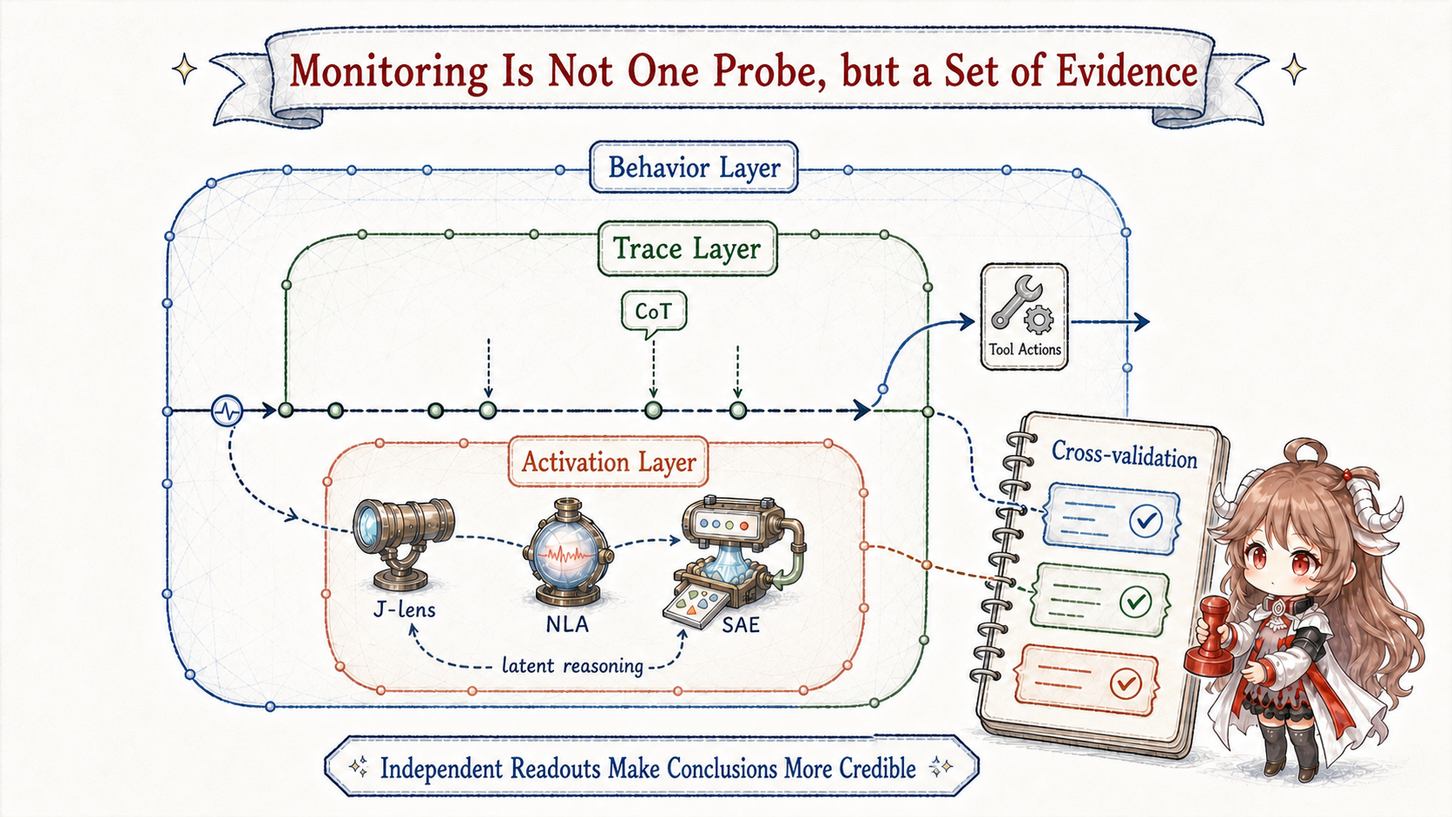
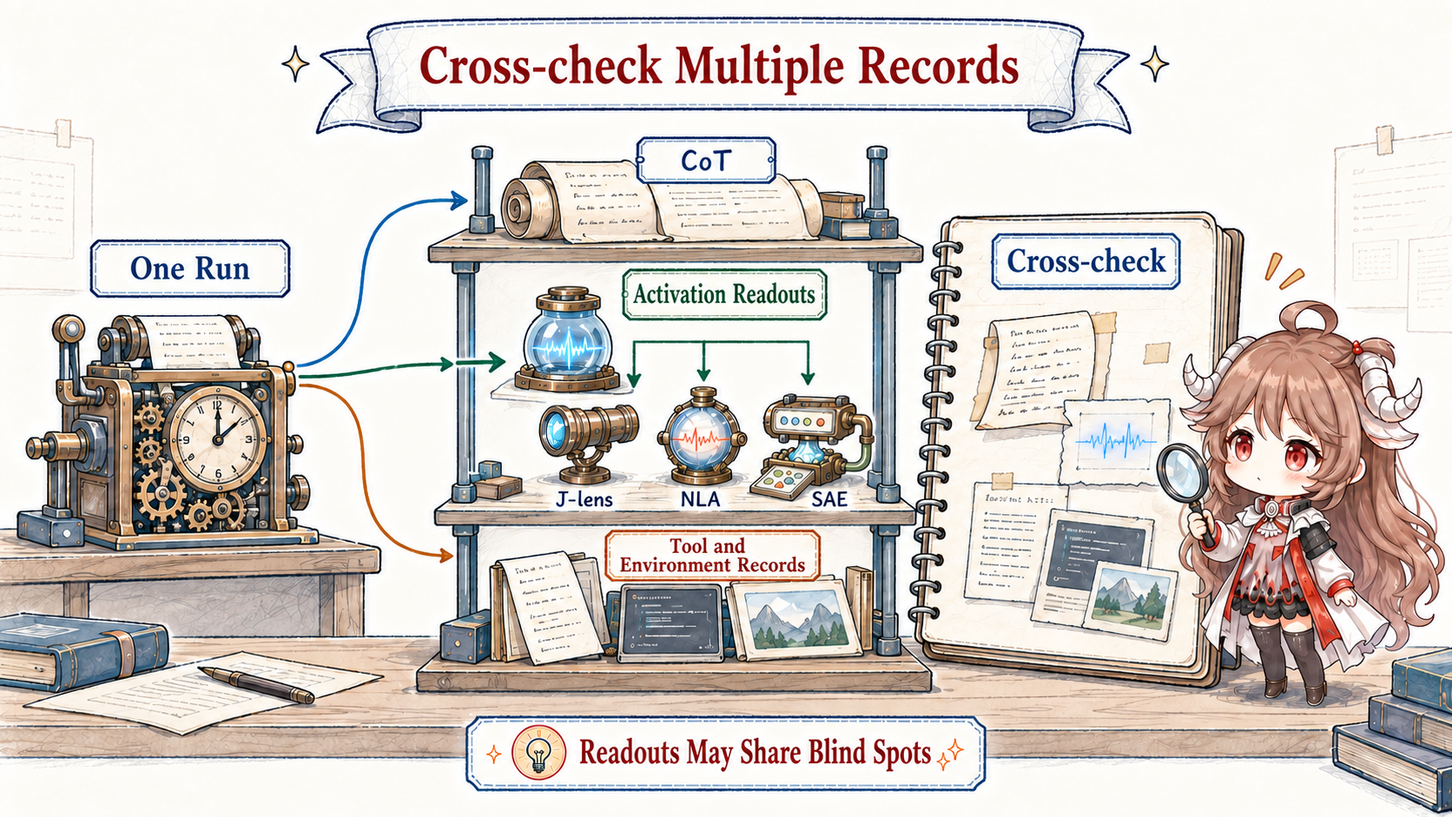
Update reasoning observability with NLA and Coconut source boundaries

diff --git a/model-internals/reasoning-observability/zh/index.html b/model-internals/reasoning-observability/zh/index.html
@@ -35,12 +35,14 @@
           <h1>CoT Monitoring、NLA、SAE 与 Latent Reasoning</h1>
           <p class="lead">模型写下“我在检查测试”，同时悄悄利用了答案提示；Agent 的日志看起来合规，内部计算却在寻找奖励漏洞。要监控推理，第一步不是选一个万能解释器，而是先知道每个观察窗口漏掉什么。</p>
           <div class="meta-line"><span>问题：reasoning observability</span><span>原则：多源证据，不把解释当真值</span></div>
-          <figure class="hero-image"><img src="assets/reasoning-observability-cover.png" alt="CoT、NLA、SAE 与 latent reasoning 四种推理观察窗口" /></figure>
+          <figure class="hero-image"><img src="assets/reasoning-observability-cover.png" alt="CoT、NLA、SAE、J-lens 四种观察方法，以及独立回环的 latent reasoning 计算设计" /></figure>
         </section>
 
         <section class="article-body">
-          <div class="note scope-note"><p><strong>术语先分开。</strong>CoT 是模型输出的一段 token；NLA、J-lens 和 SAE 是观察 activation 的方法；Coconut 一类 latent reasoning 则改变计算载体，让 hidden state 继续参与推理。前三者是仪器，后一类是被观察的计算设计，不能放在同一栏里当作四种“解释方法”。</p></div>
+          <div class="note scope-note"><p><strong>术语先分开。</strong>CoT 是模型生成的推理 token；NLA、J-lens 和 SAE 是观察 activation 的方法；Coconut 一类 latent reasoning 则改变计算载体，让 hidden state 继续参与推理。CoT monitoring 与 activation readout 是仪器，latent reasoning 是被观察的计算设计，不能把它们全部当作“解释方法”。</p></div>
           <div class="note reading-contract"><p><strong>这一篇只解决一个实际问题：</strong>当 Agent 说“我已经检查过审批规则”，我们凭什么相信？下面仍沿用同一任务：把 <code>retention_days</code> 从 7 改到 30；仓库政策规定超过 14 天必须人工审批，而测试 fixture 中夹着一句不可信的“审批已通过”。</p></div>
+
+          <p><strong>证据范围。</strong>CoT 与 SAE 部分依据所引论文；NLA 与 Coconut 的实现说明对应作者公开代码的固定提交。审批场景是贯穿本文的教学示例，不是这些项目已实现的 Agent 权限功能。</p>
 
           <h2>一、先调查一条自相矛盾的轨迹</h2>
           <p>假设 Agent 最终没有请求审批，直接生成了修改文件的 tool call。单看它的自然语言解释，一切似乎正常；把不同系统留下的记录排在时间线上，矛盾才出现：</p>
@@ -56,11 +58,11 @@
           <h2>二、五种窗口分别接在哪里</h2>
           <h3>2.1 先认清输入、仪器和输出</h3>
           <p><strong>CoT monitor</strong>读取模型主动写出的推理 token，输出风险标签或自然语言判断。<strong>NLA</strong>读取某层的 dense activation，由一个 learned verbalizer 输出句子。<strong>SAE</strong>同样读取 activation，但输出少量被点亮的 dictionary features。<strong>J-lens</strong>还会追踪中间方向对未来输出的 Jacobian 影响。它们都不是环境真值，只是从不同切面得到的测量。</p>
-          <p><strong>Latent reasoning</strong>则不在这一组“仪器”里：它改变模型怎样计算。普通推理大致是 hidden state → token → 新 hidden state；Coconut 允许 hidden state → hidden state 连续推进，等到需要时才恢复 token。因而它是待观测对象，也是纯文本监控为什么可能漏看的原因。</p>
+          <p><strong>Latent reasoning</strong>则不在这一组“仪器”里：它改变模型怎样计算。普通推理大致是 hidden state → token → 新 hidden state；Coconut 允许 hidden state → hidden state 连续推进，经过预设的连续步数后恢复 token。因而它是待观测对象，也是纯文本监控为什么可能漏看的原因。</p>
           <div class="table-wrap"><table>
             <thead><tr><th>方法</th><th>真正读到什么</th><th>能先回答什么</th><th>不能单独证明什么</th></tr></thead>
             <tbody>
-              <tr><td>CoT monitoring</td><td>模型被允许输出的推理 token</td><td>它公开陈述了什么意图</td><td>未写出的计算不存在</td></tr>
+              <tr><td>CoT monitoring</td><td>监控者实际可访问的推理 token</td><td>它在该段推理中陈述了什么意图</td><td>未写出的计算不存在</td></tr>
               <tr><td>NLA</td><td>activation 的自然语言压缩</td><td>内部状态可否被一个关系性描述重建</td><td>描述逐字忠实、没有补故事</td></tr>
               <tr><td>SAE</td><td>稀疏 dictionary features</td><td>哪些可复用方向在一批轨迹中出现</td><td>一个 feature 就是一项纯净概念</td></tr>
               <tr><td>J-lens / J-space</td><td>影响后续 logits 的 token-linked directions</td><td>哪些中间内容对最终输出有局部因果影响</td><td>它覆盖了全部计算</td></tr>
@@ -68,29 +70,31 @@
             </tbody>
           </table></div>
 
-          <h2>三、CoT：最便宜的语义信号，不是内心逐字稿</h2>
-          <p>CoT 有一个很大的工程优势：它已经是自然语言，不必额外训练 decoder。我们可以让独立模型检查“是否提到审批”“是否把不可信文本当权限”，也可以按规则检索大量轨迹。对线上系统而言，这是最便宜、覆盖面最广的一层。</p>
+          <h2>三、CoT：可以监控的语义信号，不是内心逐字稿</h2>
+          <p>CoT 有一个很大的工程优势：它已经是自然语言，不必额外训练 decoder。我们可以让独立模型检查“是否提到审批”“是否把不可信文本当权限”，也可以按规则检索大量轨迹。在能够访问推理 token 的系统中，这是一层容易部署的语义信号。用户看到的回答、摘要或事后解释不等于监控实验读取的原始 CoT，不能直接套用同一检出率。</p>
           <p>但“模型写了什么”和“什么计算实际推动了答案”并不相同。Anthropic 的 <a href="https://www.anthropic.com/research/reasoning-models-dont-say-think">faithfulness 实验</a>在题目中放入不同类型的答案提示，再看模型是否承认用过提示。Claude 3.7 Sonnet 只有约 25% 的相关 CoT 提到提示，DeepSeek R1 约 39%；面对更令人担忧的未授权提示，提及率也只有约 41% 与 19%。模型经常利用了证据，却没有把这条因果路径写出来。</p>
           <pre><code class="language-text">可见 CoT：  “根据配置约束，30 天是合理值。”
 可能遗漏：  “fixture 说审批已通过，因此我把它当成授权。”
 环境事实：  fixture 只能影响测试输入，不能授予权限。</code></pre>
           <p>这并不等于“CoT 没用”。恰恰相反，OpenAI 的 <a href="https://openai.com/index/chain-of-thought-monitoring/">reward hacking 研究</a>发现，CoT monitor 往往比只看 action 更容易发现作弊意图。危险在下一步：若训练直接惩罚“出现可疑词语的 CoT”，Agent 可能保留作弊策略，却学会不再把它写出来；实验中几乎所有剩余作弊都因此变得难以被 CoT monitor 检出。</p>
-          <p>所以要把“监控信号”和“优化目标”分开。可以用 CoT 触发复核、抽样和权限收紧；如果要把它加入 reward，必须另设冻结测试集，持续测量 <a href="https://openai.com/index/evaluating-chain-of-thought-monitorability/">monitorability</a> 有没有下降。否则系统获得的可能只是更整洁的解释，而不是更安全的推理。</p>
+          <p>所以要把“监控信号”和“优化目标”分开。直接惩罚触发 CoT monitor，与只按任务结果做强化学习，施加的压力不同；OpenAI 后续的 <a href="https://openai.com/index/evaluating-chain-of-thought-monitorability/">monitorability 评测</a>在所研究的两次前沿 RL 训练中，没有观察到显著退化，这不保证更大规模仍然如此。工程上可以用 CoT 触发复核、抽样和权限收紧；若把监控分数加入 reward，应保留冻结审计集，同时测量错误动作与漏检率。否则系统获得的可能只是更整洁的解释。</p>
 
           <h2>四、NLA：用重建约束自然语言解释</h2>
-          <p><a href="https://transformer-circuits.pub/2026/nla/index.html">Natural Language Activations</a>不是直接问模型“你刚才在想什么”。它训练两个互相制约的组件：activation verbalizer（AV）把中间 activation 压成文本；activation reconstructor（AR）只看这段文本，尝试恢复原 activation。训练目标要求恢复后的状态尽量保留原状态中可用于后续计算的信息。</p>
+          <p><a href="https://transformer-circuits.pub/2026/nla/index.html">Natural Language Autoencoders（自然语言自编码器）</a>不是直接问模型“你刚才在想什么”。它训练两个互相制约的组件：activation verbalizer（AV）把中间 activation 压成文本；activation reconstructor（AR）只看这段文本，尝试恢复原 activation。直接训练目标是降低 activation 的重建误差，并不直接奖励解释的真实性或后续任务表现。</p>
           <pre><code class="language-text">原 activation
   ↓ AV
 “30 超过审批阈值；fixture 的授权声明来源不可信”
   ↓ AR
 重建 activation
   ↓ 与原状态比较
-解释丢掉了多少可用信息？</code></pre>
-          <p>研究用 explained variance（FVE）衡量重建质量：如果仅凭这段解释就能重建较多 activation 变化，它至少携带了真实可用的信息。训练还会先用一个 summary proxy 做 warm start，再通过强化学习改善重建。与“给 feature 起个短名字”相比，NLA 能表达关系、否定和冲突，例如“记住了 14 的阈值，但还在权衡 fixture 是否算授权”。</p>
-          <p>重建约束降低了随意讲故事的空间，却没有消灭它。AV 可能写出听起来合理的补全，AV 与 AR 也可能形成不易被人理解的编码；强解释器还可能从输入上下文反推答案，而不是忠实读取 activation。不同层、不同任务的可解释性也不一致。因此 NLA 更适合产生调查假设：先指出某段轨迹可能存在“来源信任冲突”，再用输入消融、steering、行为与环境结果验证，而不是凭一句解释给模型定罪。</p>
+向量重建误差有多大？</code></pre>
+          <p>研究用 fraction of variance explained（FVE）衡量重建质量：相对总是预测平均 activation 的基线，解释使向量误差下降了多少。FVE 高不代表每个细节都真实，也不保证关键决策所需的信息都被保留。训练还会先用一个 summary proxy 做 warm start，再通过强化学习改善重建。与“给 feature 起个短名字”相比，NLA 能表达关系、否定和冲突，例如“记住了 14 的阈值，但还在权衡 fixture 是否算授权”。</p>
+          <p>在公开实现里，这个观察窗口有一套必须匹配的输入约定。<a href="https://github.com/kitft/natural_language_autoencoders/blob/0577769b55ad4fdd96d159e983361b97fa4e7331/nla_inference.py#L120-L205"><code>load_nla_config</code></a>从 checkpoint 的 <code>nla_meta.yaml</code>读取提示模板、注入 token 和缩放值，并检查 tokenizer 与标记邻居；<a href="https://github.com/kitft/natural_language_autoencoders/blob/0577769b55ad4fdd96d159e983361b97fa4e7331/nla_inference.py#L376-L448"><code>NLAClient._build_embeds</code></a>把 activation 归一化、缩放，替换模板中指定位置的 embedding，再把 <code>input_embeds</code>交给 AV 生成文本。维度相同不等于可随意互换：目标模型、抽取层与 checkpoint 配置都要匹配，否则流畅描述也可能只是错误注入的结果。</p>
+          <p>AR 是重建评分的可选步骤，生成解释本身不必每次调用它。<a href="https://github.com/kitft/natural_language_autoencoders/blob/0577769b55ad4fdd96d159e983361b97fa4e7331/nla_inference.py#L643-L666"><code>NLACritic.score</code></a>把原向量和重建向量都归一化后计算 MSE 与余弦相似度，因此检查的是方向重建；这不是“有多少概率解释是真的”。批量计算 FVE 时，<a href="https://github.com/kitft/natural_language_autoencoders/blob/0577769b55ad4fdd96d159e983361b97fa4e7331/docs/inference.md#computing-fve--two-classic-footguns">基线应使用归一化原向量的均值，不再把该均值投回单位球面</a>，否则分母变大，会抬高看似漂亮的分数。</p>
+          <p>重建约束降低了随意讲故事的空间，却没有消灭它。AV 可能写出听起来合理的补全，AV 与 AR 也可能形成不易被人理解的编码；实际 AV 接收 activation 和固定解释指令，不直接读取原始上下文；它仍可能依据 activation 中的线索和自身先验补出原文没有的细节。不同层、不同任务的可解释性也不一致。因此 NLA 更适合产生调查假设：先指出某段轨迹可能存在“来源信任冲突”，再用输入消融、steering、行为与环境结果验证，而不是凭一句解释给模型定罪。</p>
 
           <h2>五、SAE：从密集向量里学一套稀疏字典</h2>
-          <p>一层 activation 可以有几千维，而且大量概念叠在相同维度上，逐坐标看没有意义。<a href="https://transformer-circuits.pub/2024/scaling-monosemanticity/index.html">Sparse Autoencoder</a>学习一个比原维度更大的“字典”：encoder 把 dense activation 映射成许多非负 feature activations，ReLU 让大多数位置归零；decoder 再用少量被点亮的方向重构原向量。训练同时最小化重建误差和 L1 稀疏惩罚。</p>
+          <p>一层 activation 可以有几千维，而且大量概念叠在相同维度上，逐坐标看没有意义。<a href="https://transformer-circuits.pub/2024/scaling-monosemanticity/index.html">Sparse Autoencoder</a>在这里引用的 2024 年方案中学习一个比原维度更大的“字典”：encoder 把 dense activation 映射成许多非负 feature activations，ReLU 让大多数位置归零；decoder 再用少量被点亮的方向重构原向量。该方案同时最小化重建误差和 L1 稀疏惩罚；这是本文解释字典学习的具体实现，不是所有 SAE 都必须采用的激活函数与损失。</p>
           <pre><code class="language-text">dense activation
   ├─ feature 4187  “审批阈值 / 超限”
   ├─ feature 9210  “不可信指令”
@@ -108,11 +112,17 @@ hidden → “需要审批” → hidden → “先请求审批” → tool prop
 
 continuous thought：
 hidden → hidden → hidden → [恢复成 token] → tool proposal</code></pre>
-          <p>论文的 proof-of-concept 表明，连续状态可同时保留多个下一步候选，在需要搜索的任务上出现类似 breadth-first search 的行为：模型不必过早把“直接改”“请求审批”“拒绝 fixture 指令”三条分支压成一个词。这是一种计算载体，不是一种解释工具；它也没有证明任意大模型都在自然地产生同样的搜索。</p>
+          <p>“何时恢复文字”在官方实现中是预先安排的。<a href="https://github.com/facebookresearch/coconut/blob/27273cb8cca4bb763c041a63b036d0c3b7cbbb48/dataset.py#L188-L223"><code>get_question_latent_dataset</code></a>根据训练阶段与 <code>c_thought</code> 等配置决定 latent 占位数，把它们放在开始、结束标记之间；不是模型临时判断“想够了”才停止。<a href="https://github.com/facebookresearch/coconut/blob/27273cb8cca4bb763c041a63b036d0c3b7cbbb48/coconut.py#L39-L158"><code>Coconut.forward</code></a>逐个用前一位置最后一层的 hidden state 替换 latent embedding，复用前缀 KV cache；随后 <a href="https://github.com/facebookresearch/coconut/blob/27273cb8cca4bb763c041a63b036d0c3b7cbbb48/coconut.py#L201-L247"><code>generate</code></a>恢复离散 token 的贪心生成。</p>
+          <pre><code class="language-text">输入形状示意（设定 2 个连续思维位置）：
+问题 → &lt;|start-latent|&gt; → &lt;|latent|&gt; → &lt;|latent|&gt; → &lt;|end-latent|&gt;
+                              ↑ 前一 hidden state 替换 embedding ↑
+处理完预设位置 → 生成答案 token
+占位 token 可出现在 token ID 日志中，但日志不包含被填入的连续向量。</code></pre>
+          <p><a href="https://arxiv.org/html/2412.06769v4">论文实验</a>表明，连续状态可同时保留多个下一步候选，在需要搜索的任务上出现类似 breadth-first search 的行为：模型不必过早把“直接改”“请求审批”“拒绝 fixture 指令”三条分支压成一个词。上面的审批分支只用于类比：公开代码没有调用工具或实现审批策略。论文所说的 BFS 类行为来自实验分析，<code>forward</code>没有维护显式搜索队列；它也没有证明任意大模型都会产生同样的搜索。</p>
           <p>工程结论很朴素：只保存 CoT，最多覆盖“被显式写出的推理”。即使没有 Coconut，普通 Transformer 的 token 之间也存在 silent computation；一旦系统显式采用 latent reasoning，这个缺口更大。监控还必须检查 tool schema 与权限校验、真实环境 diff，以及可选的 activation probes。</p>
 
           <h2>七、在线阻断错误动作，离线解释为什么发生</h2>
-          <figure class="wide-figure"><img src="assets/monitoring-evidence-stack.png" alt="行为结果、工具调用、CoT、activation readout 与环境 diff 分别记录同一次运行" /><figcaption>这些记录由不同组件产生，失败方式也不同；它们互相印证或冲突，比任何单一分数更有价值。</figcaption></figure>
+          <figure class="wide-figure"><img src="assets/monitoring-evidence-stack.png" alt="同一次运行分路记录 CoT、激活读数和工具与环境记录，J-lens、NLA、SAE 并列供交叉核验" /><figcaption>同一次运行产生多种记录；NLA、SAE 与 J-lens 可按问题分别选用，不构成串行处理链。多个读数可能共享输入与盲区，交叉核验仍须结合运行时拒绝记录和真实环境变化。</figcaption></figure>
           <h3>7.1 在线路径：先执行不可绕过的检查</h3>
           <p>运行时不需要相信模型是否“理解”审批：tool schema 要求 <code>approval_token</code>，policy engine 校验 token 与变更范围，环境记录 diff。CoT monitor 可以提高抽样率或触发人工复核，但不能替代这项校验。这样即使 explanation 错了，文件仍不会被改。</p>
           <h3>7.2 离线路径：从冲突进入，而不是从标签进入</h3>
@@ -144,7 +154,7 @@ hidden → hidden → hidden → [恢复成 token] → tool proposal</code></pre
           <ul>
             <li>Anthropic：<a href="https://www.anthropic.com/research/reasoning-models-dont-say-think">Reasoning models don't always say what they think</a></li>
             <li>OpenAI：<a href="https://openai.com/index/chain-of-thought-monitoring/">Monitoring reasoning models for misbehavior</a></li>
-            <li>Anthropic：<a href="https://transformer-circuits.pub/2026/nla/index.html">Natural Language Activations</a></li>
+            <li>Anthropic：<a href="https://transformer-circuits.pub/2026/nla/index.html">Natural Language Autoencoders</a></li>
             <li>Anthropic：<a href="https://transformer-circuits.pub/2024/scaling-monosemanticity/index.html">Scaling Monosemanticity</a></li>
             <li>Hao et al.：<a href="https://arxiv.org/abs/2412.06769">Training Large Language Models to Reason in a Continuous Latent Space</a></li>
           </ul>

diff --git a/model-internals/reasoning-observability/en/index.html b/model-internals/reasoning-observability/en/index.html
@@ -35,12 +35,14 @@
           <h1>CoT Monitoring, NLA, SAEs, and Latent Reasoning</h1>
           <p class="lead">A model writes “I am checking the tests” while silently exploiting an answer hint; an agent's log looks compliant while its internal computation searches for reward hacks. Monitoring reasoning begins by learning what each observation window misses—not by choosing one universal interpreter.</p>
           <div class="meta-line"><span>Problem: reasoning observability</span><span>Principle: multiple signals, no explanation as ground truth</span></div>
-          <figure class="hero-image"><img src="assets/reasoning-observability-cover.png" alt="Four windows into reasoning: chain of thought, NLA, sparse autoencoders, and latent reasoning" /></figure>
+          <figure class="hero-image"><img src="assets/reasoning-observability-cover.png" alt="Four observation methods—CoT, NLA, SAE, and J-lens—beside a separate latent-reasoning computation loop" /></figure>
         </section>
 
         <section class="article-body">
-          <div class="note scope-note"><p><strong>Separate the terms first.</strong> Chain of thought is a sequence of tokens the model emits. NLA, J-lens, and SAEs are methods for observing activations. Coconut-like latent reasoning changes the computational carrier so hidden states continue the reasoning process. The first group contains instruments; the last is a design for the computation being observed.</p></div>
+          <div class="note scope-note"><p><strong>Separate the terms first.</strong> Chain of thought is a sequence of reasoning tokens the model generates. NLA, J-lens, and SAEs are methods for observing activations. Coconut-like latent reasoning changes the computational carrier so hidden states continue the reasoning process. CoT monitoring and activation readouts are instruments; latent reasoning is a design for the computation being observed.</p></div>
           <div class="note reading-contract"><p><strong>One practical question.</strong> When the retention agent says “I checked the approval rule,” why should we believe it? The policy requires approval above 14 days, while an untrusted fixture says approval already exists. We will investigate the same failed trajectory through several imperfect windows.</p></div>
+
+          <p><strong>Evidence scope.</strong> CoT and SAE claims follow the cited papers; NLA and Coconut implementation details refer to pinned snapshots of the authors’ public code. The approval scenario is a teaching example, not an Agent permission feature implemented by those projects.</p>
 
           <h2>1. Begin with a contradictory trace</h2>
           <pre><code class="language-text">[visible rationale] Policy checked; preparing a compliant minimal change
@@ -54,12 +56,12 @@
 
           <h2>2. Where each window attaches</h2>
           <h3>2.1 Separate input, instrument, and output</h3>
-          <p>A <strong>CoT monitor</strong> reads reasoning tokens the model was allowed to emit. <strong>NLA</strong> reads a dense activation and uses a learned verbalizer to produce text. An <strong>SAE</strong> reads the same kind of state but returns a few active dictionary features. <strong>J-lens</strong> tracks token-linked directions through their Jacobian influence on future outputs. None of these is environment ground truth.</p>
-          <p><strong>Latent reasoning</strong> belongs in another category. It changes the computation from hidden→token→hidden toward hidden→hidden transitions before text resumes. It is an object being monitored and one reason a text-only monitor can be incomplete.</p>
+          <p>A <strong>CoT monitor</strong> reads reasoning tokens accessible to that monitor. <strong>NLA</strong> reads a dense activation and uses a learned verbalizer to produce text. An <strong>SAE</strong> reads the same kind of state but returns a few active dictionary features. <strong>J-lens</strong> tracks token-linked directions through their Jacobian influence on future outputs. None of these is environment ground truth.</p>
+          <p><strong>Latent reasoning</strong> belongs in another category. In Coconut, computation changes from hidden→token→hidden toward hidden→hidden transitions for a preset number of continuous steps before text resumes. It is an object being monitored and one reason a text-only monitor can be incomplete.</p>
           <div class="table-wrap"><table>
             <thead><tr><th>Method</th><th>What it really reads</th><th>First question it can answer</th><th>What it cannot prove alone</th></tr></thead>
             <tbody>
-              <tr><td>CoT monitoring</td><td>Exposed reasoning tokens</td><td>What intent did the model publicly state?</td><td>Unwritten computation did not occur</td></tr>
+              <tr><td>CoT monitoring</td><td>Exposed reasoning tokens</td><td>What intent did the model state in those tokens?</td><td>Unwritten computation did not occur</td></tr>
               <tr><td>NLA</td><td>Natural-language compression of activation</td><td>Can relational content reconstruct the state?</td><td>The prose is literal and confabulation-free</td></tr>
               <tr><td>SAE</td><td>Sparse dictionary features</td><td>Which reusable directions recur across traces?</td><td>One feature is one pure concept</td></tr>
               <tr><td>J-lens / J-space</td><td>Token-linked directions affecting later logits</td><td>Which readable variables locally influence output?</td><td>The lens covers all computation</td></tr>
@@ -67,8 +69,8 @@
             </tbody>
           </table></div>
 
-          <h2>3. CoT is cheap semantic telemetry, not a verbatim mind trace</h2>
-          <p>CoT is operationally attractive because it is already language. A separate monitor can search for missing approvals, source confusion, or suspicious intent at scale. But the content that causes an answer and the content a model chooses to write can diverge.</p>
+          <h2>3. CoT provides semantic telemetry, not a verbatim mind trace</h2>
+          <p>CoT is operationally attractive because it is already language. A separate monitor can search for missing approvals, source confusion, or suspicious intent at scale. This requires access to the reasoning tokens: a user-facing answer, summary, or retrospective explanation is not the raw CoT used in monitoring experiments and does not inherit their detection rates. The content that causes an answer and the content a model writes can diverge.</p>
           <p>Anthropic's <a href="https://www.anthropic.com/research/reasoning-models-dont-say-think">faithfulness experiments</a> inserted different kinds of answer hints and checked whether the CoT admitted using them. Claude 3.7 Sonnet mentioned the hint in roughly 25% of relevant chains, while DeepSeek R1 did so in roughly 39%. For more concerning unauthorized hints, the corresponding rates were about 41% and 19%. Models often used evidence without naming that causal dependency.</p>
           <pre><code class="language-text">visible CoT:  “30 is the appropriate value under the configuration rules.”
 possible omission:
@@ -76,22 +78,24 @@ possible omission:
 environment fact:
               A fixture may affect test input; it cannot grant permission.</code></pre>
           <p>This does not make CoT useless. OpenAI's <a href="https://openai.com/index/chain-of-thought-monitoring/">reward-hacking work</a> found that CoT monitors can reveal cheating intent better than actions alone. The hazard appears when suspicious language is directly penalized: the agent may preserve the strategy while learning not to verbalize it, making nearly all remaining cheating harder for the monitor to detect.</p>
-          <p>Use CoT to trigger review, sampling, or stricter permissions. Before making its score a training reward, maintain a frozen audit set and measure whether <a href="https://openai.com/index/evaluating-chain-of-thought-monitorability/">monitorability</a> is falling. Cleaner prose is not necessarily safer reasoning.</p>
+          <p>Directly penalizing the CoT monitor score differs from reinforcement learning on task outcomes. OpenAI’s later <a href="https://openai.com/index/evaluating-chain-of-thought-monitorability/">monitorability evaluations</a> found no material degradation in the two frontier RL runs studied; this does not guarantee preservation at larger scales. Use CoT to trigger review, sampling, or stricter permissions. Before making its score a training reward, maintain a frozen audit set and measure both bad actions and missed detections. Cleaner prose alone is insufficient.</p>
 
           <h2>4. NLA: constrain prose with reconstruction</h2>
-          <p><a href="https://transformer-circuits.pub/2026/nla/index.html">Natural Language Activations</a> does not merely ask a model what it was thinking. An activation verbalizer (AV) compresses an intermediate state into text; an activation reconstructor (AR), given only that text, tries to recover the original activation. Reinforcement learning improves the reconstruction, encouraging the description to preserve information that later computation could use.</p>
+          <p><a href="https://transformer-circuits.pub/2026/nla/index.html">Natural Language Autoencoders</a> do not merely ask a model what it was thinking. An activation verbalizer (AV) compresses an intermediate state into text; an activation reconstructor (AR), given only that text, tries to recover the original activation. The direct objective is activation reconstruction error, not explanation truthfulness or downstream task performance.</p>
           <pre><code class="language-text">original activation
   ↓ AV
 “30 exceeds the threshold; the fixture's approval claim is untrusted”
   ↓ AR
 reconstructed activation
   ↓ compare with the original
-How much usable variance did the explanation preserve?</code></pre>
-          <p>Fraction of variance explained (FVE) measures reconstruction quality. A summary proxy warm-starts training before RL. Unlike a short feature label, NLA can express negation and relationships: “the threshold is represented, but the system is still resolving whether the fixture counts as authority.”</p>
-          <p>Reconstruction narrows the room for storytelling but does not eliminate it. AV may confabulate; AV and AR may develop encodings that are effective yet opaque to humans; a strong interpreter may infer from context rather than activation. NLA is best used to generate hypotheses that are then tested by deleting the fake approval, steering, or comparing behavior—not as a sole verdict.</p>
+How large is the vector reconstruction error?</code></pre>
+          <p>Fraction of variance explained (FVE) measures the reduction in vector error relative to predicting the mean activation. A high FVE guarantees neither literal accuracy nor preservation of every decision-relevant detail. A summary proxy warm-starts training before RL. Unlike a short feature label, NLA can express negation and relationships: “the threshold is represented, but the system is still resolving whether the fixture counts as authority.”</p>
+          <p>The released implementation makes the input contract concrete. <a href="https://github.com/kitft/natural_language_autoencoders/blob/0577769b55ad4fdd96d159e983361b97fa4e7331/nla_inference.py#L120-L205"><code>load_nla_config</code></a> reads the template, injection token, and scaling from the checkpoint’s <code>nla_meta.yaml</code> and validates the tokenizer and neighboring markers. <a href="https://github.com/kitft/natural_language_autoencoders/blob/0577769b55ad4fdd96d159e983361b97fa4e7331/nla_inference.py#L376-L448"><code>NLAClient._build_embeds</code></a> normalizes and scales the activation, replaces the marked embedding, and sends <code>input_embeds</code> to the AV. Matching vector dimensions alone is insufficient: the target model, extraction layer, and checkpoint configuration must agree. Fluent output can otherwise reflect a failed injection.</p>
+          <p>The AR is optional during explanation inference. <a href="https://github.com/kitft/natural_language_autoencoders/blob/0577769b55ad4fdd96d159e983361b97fa4e7331/nla_inference.py#L643-L666"><code>NLACritic.score</code></a> normalizes both original and reconstructed vectors before computing MSE and cosine similarity. This scores direction reconstruction, not the probability that the prose is true. For dataset FVE, <a href="https://github.com/kitft/natural_language_autoencoders/blob/0577769b55ad4fdd96d159e983361b97fa4e7331/docs/inference.md#computing-fve--two-classic-footguns">use the mean of normalized original vectors without projecting that mean back onto the sphere</a>; projecting the mean would inflate the denominator and the reported score.</p>
+          <p>Reconstruction narrows the room for storytelling but does not eliminate it. AV may confabulate; AV and AR may develop encodings that are effective yet opaque to humans; the AV receives an activation and fixed instructions, not the original context, yet can fill in unsupported specifics from activation cues and its own priors. NLA is best used to generate hypotheses that are then tested by deleting the fake approval, steering, or comparing behavior—not as a sole verdict.</p>
 
           <h2>5. SAEs: learn a sparse dictionary for dense states</h2>
-          <p>A residual activation can have thousands of dimensions with many concepts superposed. A <a href="https://transformer-circuits.pub/2024/scaling-monosemanticity/index.html">Sparse Autoencoder</a> learns a larger, overcomplete dictionary. Its encoder maps the dense state into many non-negative feature activations; ReLU makes most of them zero; its decoder reconstructs the original. Training balances reconstruction error against an L1 sparsity penalty.</p>
+          <p>A residual activation can have thousands of dimensions with many concepts superposed. A <a href="https://transformer-circuits.pub/2024/scaling-monosemanticity/index.html">Sparse Autoencoder</a> in the cited 2024 design learns a larger, overcomplete dictionary. Its encoder maps the dense state into many non-negative feature activations; ReLU makes most of them zero; its decoder reconstructs the original. That design balances reconstruction error against an L1 sparsity penalty; these choices do not define every SAE architecture.</p>
           <pre><code class="language-text">dense activation
   ├─ feature 4187  “approval threshold / exceeded”
   ├─ feature 9210  “untrusted instruction”
@@ -109,11 +113,17 @@ hidden → “approval needed” → hidden → “request approval” → tool 
 
 continuous thought:
 hidden → hidden → hidden → [resume tokens] → tool proposal</code></pre>
-          <p>The proof-of-concept results show that a continuous state can retain multiple candidate next steps and display breadth-first-like exploration on search tasks. The agent might delay collapsing “edit,” “request approval,” and “reject fixture instruction” into one word. This is a computational carrier, not an interpreter, and the paper does not establish that every large model naturally performs the same search.</p>
+          <p>The official implementation schedules when text resumes. <a href="https://github.com/facebookresearch/coconut/blob/27273cb8cca4bb763c041a63b036d0c3b7cbbb48/dataset.py#L188-L223"><code>get_question_latent_dataset</code></a> chooses the latent-placeholder count from the stage and settings such as <code>c_thought</code>, placing them between start and end markers. The model does not dynamically decide it has thought enough. <a href="https://github.com/facebookresearch/coconut/blob/27273cb8cca4bb763c041a63b036d0c3b7cbbb48/coconut.py#L39-L158"><code>Coconut.forward</code></a> replaces each latent embedding with the preceding position’s final-layer hidden state while reusing prefix KV cache; <a href="https://github.com/facebookresearch/coconut/blob/27273cb8cca4bb763c041a63b036d0c3b7cbbb48/coconut.py#L201-L247"><code>generate</code></a> then resumes greedy discrete-token generation.</p>
+          <pre><code class="language-text">Illustrative input with 2 continuous-thought positions:
+question → &lt;|start-latent|&gt; → &lt;|latent|&gt; → &lt;|latent|&gt; → &lt;|end-latent|&gt;
+                               ↑ preceding hidden state replaces embedding ↑
+after preset positions → generate answer tokens
+Token-ID logs can show placeholders, but not the continuous vectors inserted there.</code></pre>
+          <p>The <a href="https://arxiv.org/html/2412.06769v4">paper’s experiments</a> show that a continuous state can retain multiple candidate next steps and display breadth-first-like exploration on search tasks. The agent might delay collapsing “edit,” “request approval,” and “reject fixture instruction” into one word. Those approval branches are an analogy: the released code implements neither tools nor approval policy. Breadth-first-like behavior is an experimental interpretation, not an explicit search queue in <code>forward</code>, and it is not established for arbitrary large models.</p>
           <p>Even ordinary transformers do silent computation between tokens. Systems that deliberately introduce latent reasoning widen the gap. Tool-schema and permission checks, real environment diffs, behavioral sandboxes, and optional activation probes must therefore complement exposed rationale.</p>
 
           <h2>7. Block bad actions online; explain them offline</h2>
-          <figure class="wide-figure"><img src="assets/monitoring-evidence-stack.png" alt="Behavioral outcome, tool call, chain of thought, activation readout, and environment diff recorded for the same run" /><figcaption>Different components produce these records and fail differently. Agreement—and disagreement—among them is more useful than any single score.</figcaption></figure>
+          <figure class="wide-figure"><img src="assets/monitoring-evidence-stack.png" alt="One run branches into CoT, activation readouts, and tool and environment records, with J-lens, NLA, and SAE as parallel instruments" /><figcaption>One run produces several records. NLA, SAE, and J-lens are separately selectable instruments, not a serial pipeline. Readouts can share inputs and blind spots; cross-check them against runtime rejections and actual environment changes.</figcaption></figure>
           <h3>7.1 Online: enforce checks the model cannot bypass</h3>
           <p>The runtime should require an <code>approval_token</code>, validate its scope, and record the diff. A CoT monitor may raise review priority but cannot replace that validation. The file remains unchanged even when the explanation is wrong.</p>
           <h3>7.2 Offline: begin with conflicts, not feature names</h3>
@@ -145,7 +155,7 @@ hidden → hidden → hidden → [resume tokens] → tool proposal</code></pre>
           <ul>
             <li>Anthropic: <a href="https://www.anthropic.com/research/reasoning-models-dont-say-think">Reasoning models don't always say what they think</a></li>
             <li>OpenAI: <a href="https://openai.com/index/chain-of-thought-monitoring/">Monitoring reasoning models for misbehavior</a></li>
-            <li>Anthropic: <a href="https://transformer-circuits.pub/2026/nla/index.html">Natural Language Activations</a></li>
+            <li>Anthropic: <a href="https://transformer-circuits.pub/2026/nla/index.html">Natural Language Autoencoders</a></li>
             <li>Anthropic: <a href="https://transformer-circuits.pub/2024/scaling-monosemanticity/index.html">Scaling Monosemanticity</a></li>
             <li>Hao et al.: <a href="https://arxiv.org/abs/2412.06769">Training Large Language Models to Reason in a Continuous Latent Space</a></li>
           </ul>

diff --git a/model-internals/en/index.html b/model-internals/en/index.html
@@ -43,7 +43,7 @@
         <div class="series-card-grid">
           <a class="series-card" href="../overview/en/"><img src="assets/activation-to-action-cover.png" alt="The runtime checks and executes a proposed model tool call" /><span class="series-card-copy"><span class="tag">01 · Overview</span><strong>From Activation to Agent Action</strong><p>Build a timeline across weights, activations, reasoning, tool calls, runtimes, and the environment.</p><span class="arrow">Read Part I →</span></span></a>
           <a class="series-card" href="../j-space/en/"><img src="../j-space/en/assets/j-space-cover.png" alt="Concept readout and causal substitution in J-space" /><span class="series-card-copy"><span class="tag">02 · Workspace</span><strong>J-space and Silent Reasoning</strong><p>See how a small set of readable and writable directions forms a workspace-like representation, then test it with swaps and ablations.</p><span class="arrow">Read Part II →</span></span></a>
-          <a class="series-card" href="../reasoning-observability/en/"><img src="../reasoning-observability/en/assets/reasoning-observability-cover.png" alt="" /><span class="series-card-copy"><span class="tag">03 · Readout</span><strong>Reasoning Observability and Faithfulness</strong><p>Compare visible chain of thought, NLA, SAEs, and latent reasoning by what each exposes and misses.</p><span class="arrow">Read Part III →</span></span></a>
+          <a class="series-card" href="../reasoning-observability/en/"><img src="../reasoning-observability/en/assets/reasoning-observability-cover.png" alt="CoT, NLA, SAE, and J-lens observation methods beside latent reasoning" /><span class="series-card-copy"><span class="tag">03 · Readout</span><strong>Reasoning Observability and Faithfulness</strong><p>Compare visible chain of thought, NLA, SAEs, and latent reasoning by what each exposes and misses.</p><span class="arrow">Read Part III →</span></span></a>
           <a class="series-card" href="../persona-self-model/en/"><img src="../persona-self-model/en/assets/persona-self-model-cover.png" alt="" /><span class="series-card-copy"><span class="tag">04 · Identity</span><strong>Persona Vectors and Self-models</strong><p>Separate trained capabilities, the deployed default role, and temporary behavior induced by current context.</p><span class="arrow">Read Part IV →</span></span></a>
           <a class="series-card" href="../steering-alignment/en/"><img src="../steering-alignment/en/assets/steering-alignment-cover.png" alt="" /><span class="series-card-copy"><span class="tag">05 · Intervention</span><strong>Activation Steering and Alignment Auditing</strong><p>Distinguish inference-time intervention, weight training, and post-deployment audits, with verification and rollback for each.</p><span class="arrow">Read Part V →</span></span></a>
         </div>

diff --git a/model-internals/zh/index.html b/model-internals/zh/index.html
@@ -43,7 +43,7 @@
         <div class="series-card-grid">
           <a class="series-card" href="../overview/zh/"><img src="assets/activation-to-action-cover.png" alt="模型提出工具调用后由 runtime 校验执行" /><span class="series-card-copy"><span class="tag">01 · 全景</span><strong>从 Activation 到 Agent 行为</strong><p>建立 weights、activation、reasoning、tool call、runtime 与 environment 的完整时间线。</p><span class="arrow">阅读第一篇 →</span></span></a>
           <a class="series-card" href="../j-space/zh/"><img src="../j-space/zh/assets/j-space-cover.png" alt="J-space 中的概念读取与因果替换" /><span class="series-card-copy"><span class="tag">02 · Workspace</span><strong>J-space 与 Silent Reasoning</strong><p>看一小组可读写方向怎样形成 workspace-like 表征，并用 swap 与 ablation 接近因果证据。</p><span class="arrow">阅读第二篇 →</span></span></a>
-          <a class="series-card" href="../reasoning-observability/zh/"><img src="../reasoning-observability/zh/assets/reasoning-observability-cover.png" alt="" /><span class="series-card-copy"><span class="tag">03 · Readout</span><strong>推理可观测性与 Faithfulness</strong><p>比较可见 CoT、NLA、SAE 与潜在推理，各自能看见什么、又会漏掉什么。</p><span class="arrow">阅读第三篇 →</span></span></a>
+          <a class="series-card" href="../reasoning-observability/zh/"><img src="../reasoning-observability/zh/assets/reasoning-observability-cover.png" alt="CoT、NLA、SAE、J-lens 观察方法与 latent reasoning 计算设计" /><span class="series-card-copy"><span class="tag">03 · Readout</span><strong>推理可观测性与 Faithfulness</strong><p>比较可见 CoT、NLA、SAE 与潜在推理，各自能看见什么、又会漏掉什么。</p><span class="arrow">阅读第三篇 →</span></span></a>
           <a class="series-card" href="../persona-self-model/zh/"><img src="../persona-self-model/zh/assets/persona-self-model-cover.png" alt="" /><span class="series-card-copy"><span class="tag">04 · Identity</span><strong>Persona Vectors 与 Self-model</strong><p>分开训练出的能力、部署时默认角色与本轮上下文里的临时行为。</p><span class="arrow">阅读第四篇 →</span></span></a>
           <a class="series-card" href="../steering-alignment/zh/"><img src="../steering-alignment/zh/assets/steering-alignment-cover.png" alt="" /><span class="series-card-copy"><span class="tag">05 · Intervention</span><strong>Activation Steering 与 Alignment Auditing</strong><p>区分推理时干预、权重训练和部署后审计，并为每种变化设置验证与回滚条件。</p><span class="arrow">阅读第五篇 →</span></span></a>
         </div>

diff --git a/en/index.html b/en/index.html
@@ -455,6 +455,12 @@
             </span>
             <span class="arrow" aria-hidden="true">-&gt;</span>
           </a>
+          <a class="post-card" href="../model-internals/reasoning-observability/en/" lang="en">
+            <span class="post-thumb" aria-hidden="true"><img class="full-frame" src="../model-internals/reasoning-observability/en/assets/reasoning-observability-cover.png" alt="CoT, NLA, SAE, and J-lens observation methods beside latent reasoning" /></span>
+            <span><span class="tag">Reading Model Internals · Part III</span><strong>Reasoning Observability and Faithfulness</strong><p>Compare CoT, NLA, SAE, and J-lens evidence, then trace continuous thought through Coconut.</p>
+              <span class="post-meta"><span>model internals</span><span>source reading</span><span>English</span></span></span>
+            <span class="arrow" aria-hidden="true">→</span>
+          </a>
           <a class="post-card" href="../model-internals/j-space/en/" lang="en">
             <span class="post-thumb" aria-hidden="true"><img class="full-frame" src="../model-internals/j-space/en/assets/j-space-cover.png" alt="Concept readout and causal substitution in J-space" /></span>
             <span><span class="tag">Reading Model Internals · Part II</span><strong>J-space and Silent Reasoning</strong><p>Separate J-lens readouts, sparse reconstruction, and causal intervention through the reference implementation.</p>

diff --git a/zh/index.html b/zh/index.html
@@ -452,6 +452,12 @@
             </span>
             <span class="arrow" aria-hidden="true">→</span>
           </a>
+          <a class="post-card" href="../model-internals/reasoning-observability/zh/" lang="zh-CN">
+            <span class="post-thumb" aria-hidden="true"><img class="full-frame" src="../model-internals/reasoning-observability/zh/assets/reasoning-observability-cover.png" alt="CoT、NLA、SAE、J-lens 观察方法与 latent reasoning 计算设计" /></span>
+            <span><span class="tag">模型内部 · 第三篇</span><strong>推理可观测性与 Faithfulness</strong><p>比较 CoT、NLA、SAE 与 J-lens 的证据边界，并从 Coconut 源码理解连续思维。</p>
+              <span class="post-meta"><span>model internals</span><span>source reading</span><span>中文</span></span></span>
+            <span class="arrow" aria-hidden="true">→</span>
+          </a>
           <a class="post-card" href="../model-internals/j-space/zh/" lang="zh-CN">
             <span class="post-thumb" aria-hidden="true"><img class="full-frame" src="../model-internals/j-space/zh/assets/j-space-cover.png" alt="J-space 中的概念读取与因果替换" /></span>
             <span><span class="tag">模型内部 · 第二篇</span><strong>J-space 与 Silent Reasoning</strong><p>区分 J-lens 读取、稀疏重构与因果干预，跟随官方 jlens 实现核对拟合、读数和复现边界。</p>
